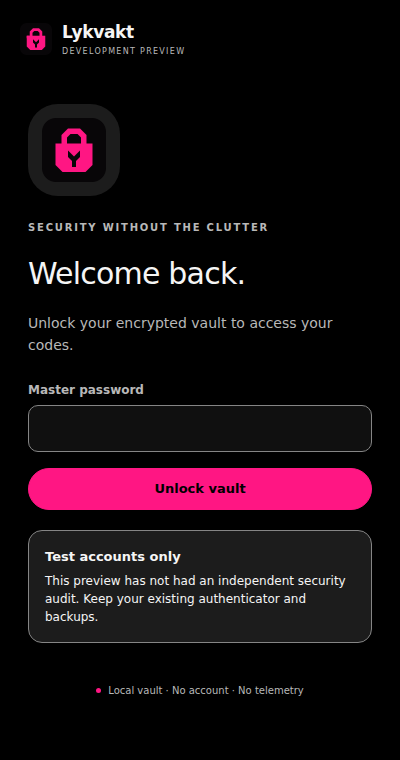
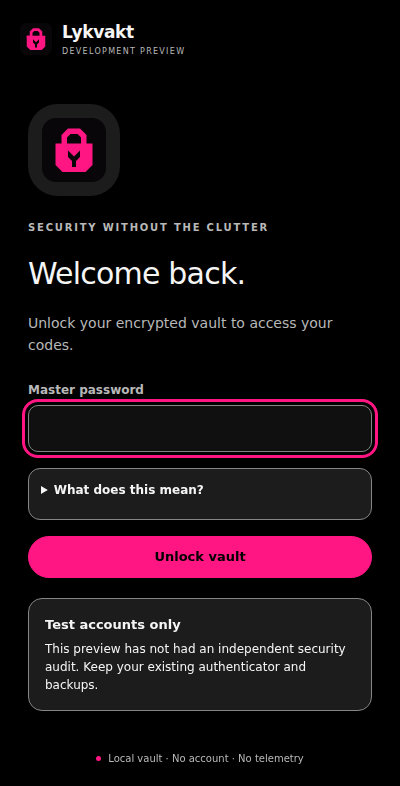
Record full feature CI validation and refresh synthetic interface screenshots

diff --git a/docs/validation.md b/docs/validation.md
@@ -2,7 +2,7 @@
 
 ## Current development branch
 
-A fresh local source snapshot passed npm ci --ignore-scripts, build, lint, format:check and all 269 tests in 29 files. The install audited 176 packages and reported zero vulnerabilities. The runtime package guard and ZIP packaging also passed. The current feature browser run will be recorded here after it finishes; no feature browser success is claimed yet.
+A fresh local source snapshot passed npm ci --ignore-scripts, build, lint, format:check and all 269 tests in 29 files. The install audited 176 packages and reported zero vulnerabilities. The runtime package guard and ZIP packaging also passed. The [full feature PR run](https://github.com/librerob/otp-vault/actions/runs/40210914031) passed on commit 887a90ff641a0678766d7e6862e9a3d4c615263c: all 269 unit tests, all 41 browser scenarios in Chrome for Testing 156.0.8078.4 on Linux, the existing AMOLED axe scan and both expanded-help axe scans with zero violations, the actual headed tab-lock check, bench and packaging. The browser artifact recorded zero external requests and no uncaught errors; npm audit reported zero vulnerabilities.
 
 The preceding security-fix build passed [full PR CI](https://github.com/librerob/otp-vault/actions/runs/40205186659): 186 unit tests, 34 browser scenarios, the existing AMOLED axe scan with zero violations, the headed tab-lock check, and an audit with zero reported vulnerabilities. Those results describe that PBKDF2 build, not the new Argon2id interface.
 

diff --git a/docs/screenshots.md b/docs/screenshots.md
@@ -2,7 +2,7 @@
 
 Captured from the installed unpacked extension in Chrome for Testing 156 on Linux. All accounts and codes use synthetic test secrets. Every view uses the single true-black and pink appearance. These are application captures, not mockups.
 
-These checked-in images remain available below and in the [README](../README.md). The [validated main build](https://github.com/librerob/otp-vault/actions/runs/40183059952) also captured the interface in its browser suite; see [validation](validation.md) for observed checks and limits.
+These checked-in images remain available below and in the [README](../README.md). They were refreshed from the [validated feature build](https://github.com/librerob/otp-vault/actions/runs/40210914031) at commit 887a90ff641a0678766d7e6862e9a3d4c615263c; see [validation](validation.md) for observed checks and limits.
 
 ## Setup
 
